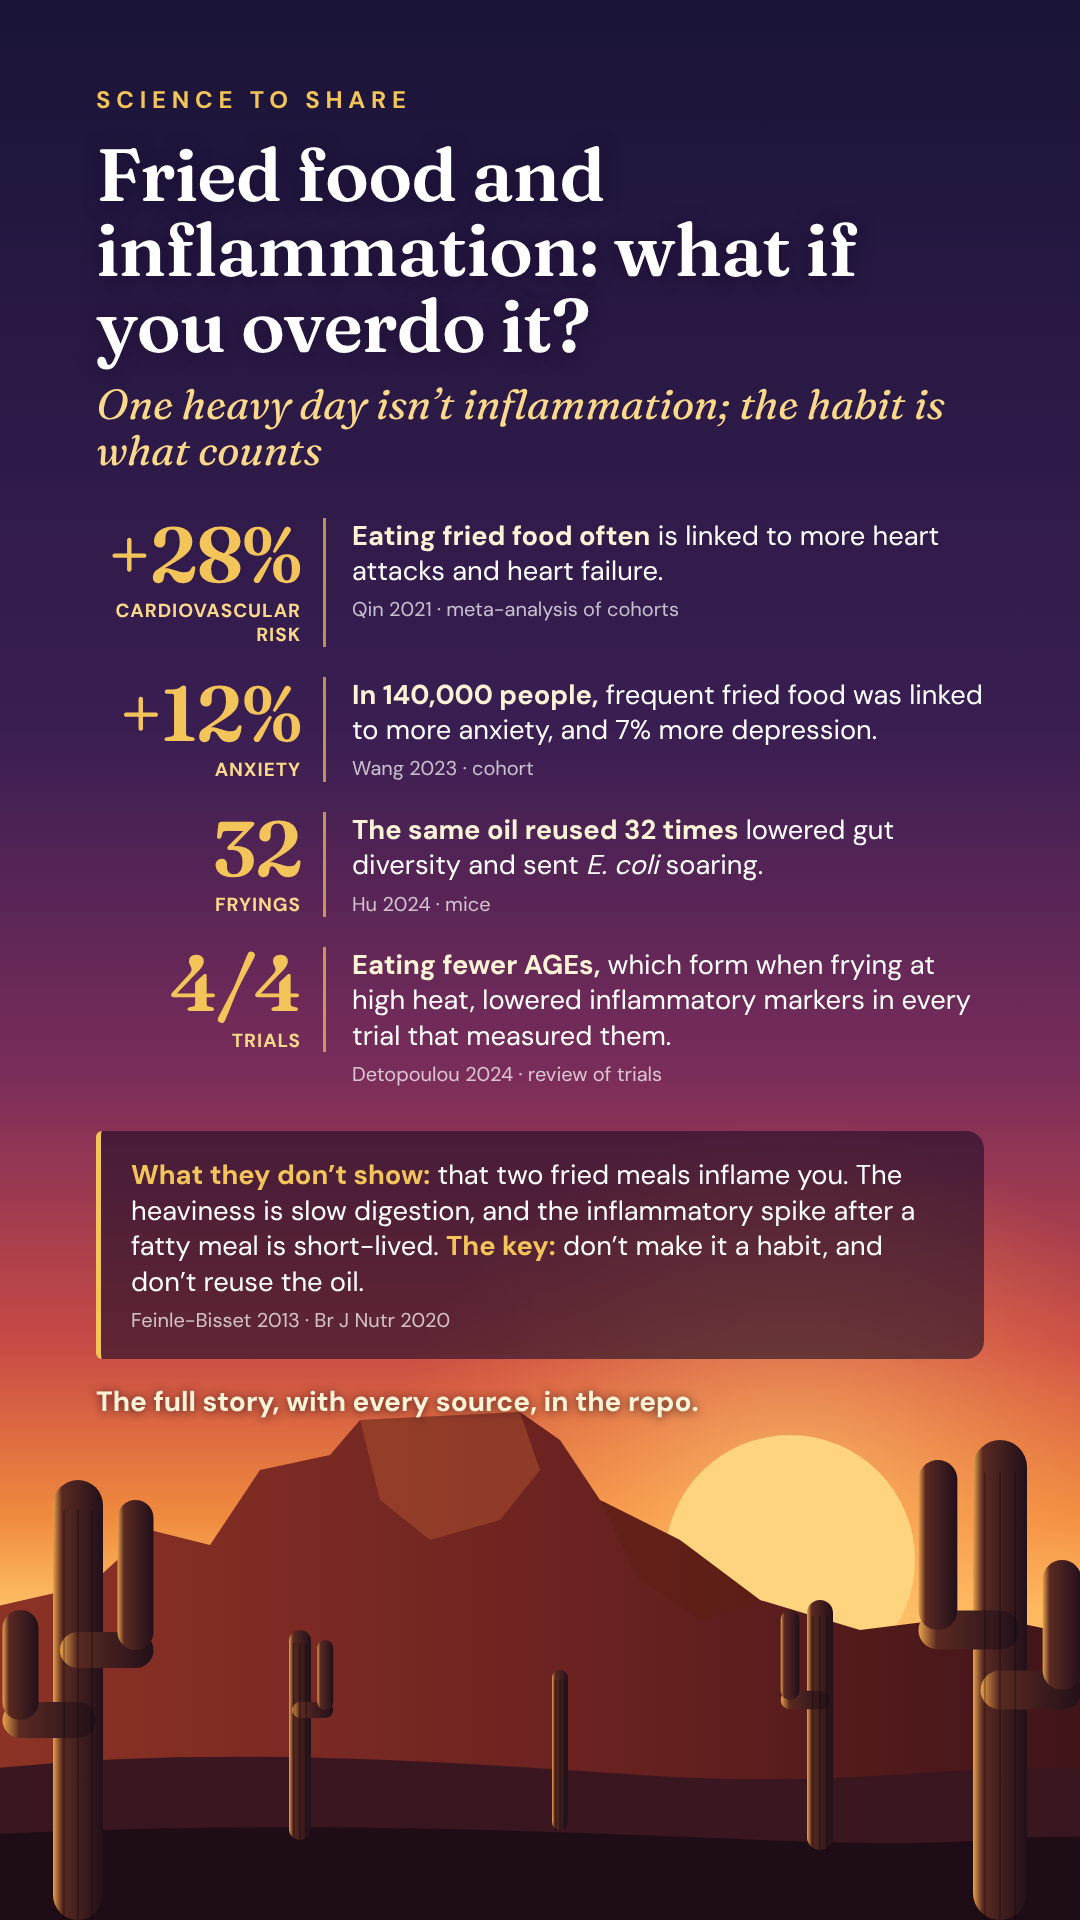
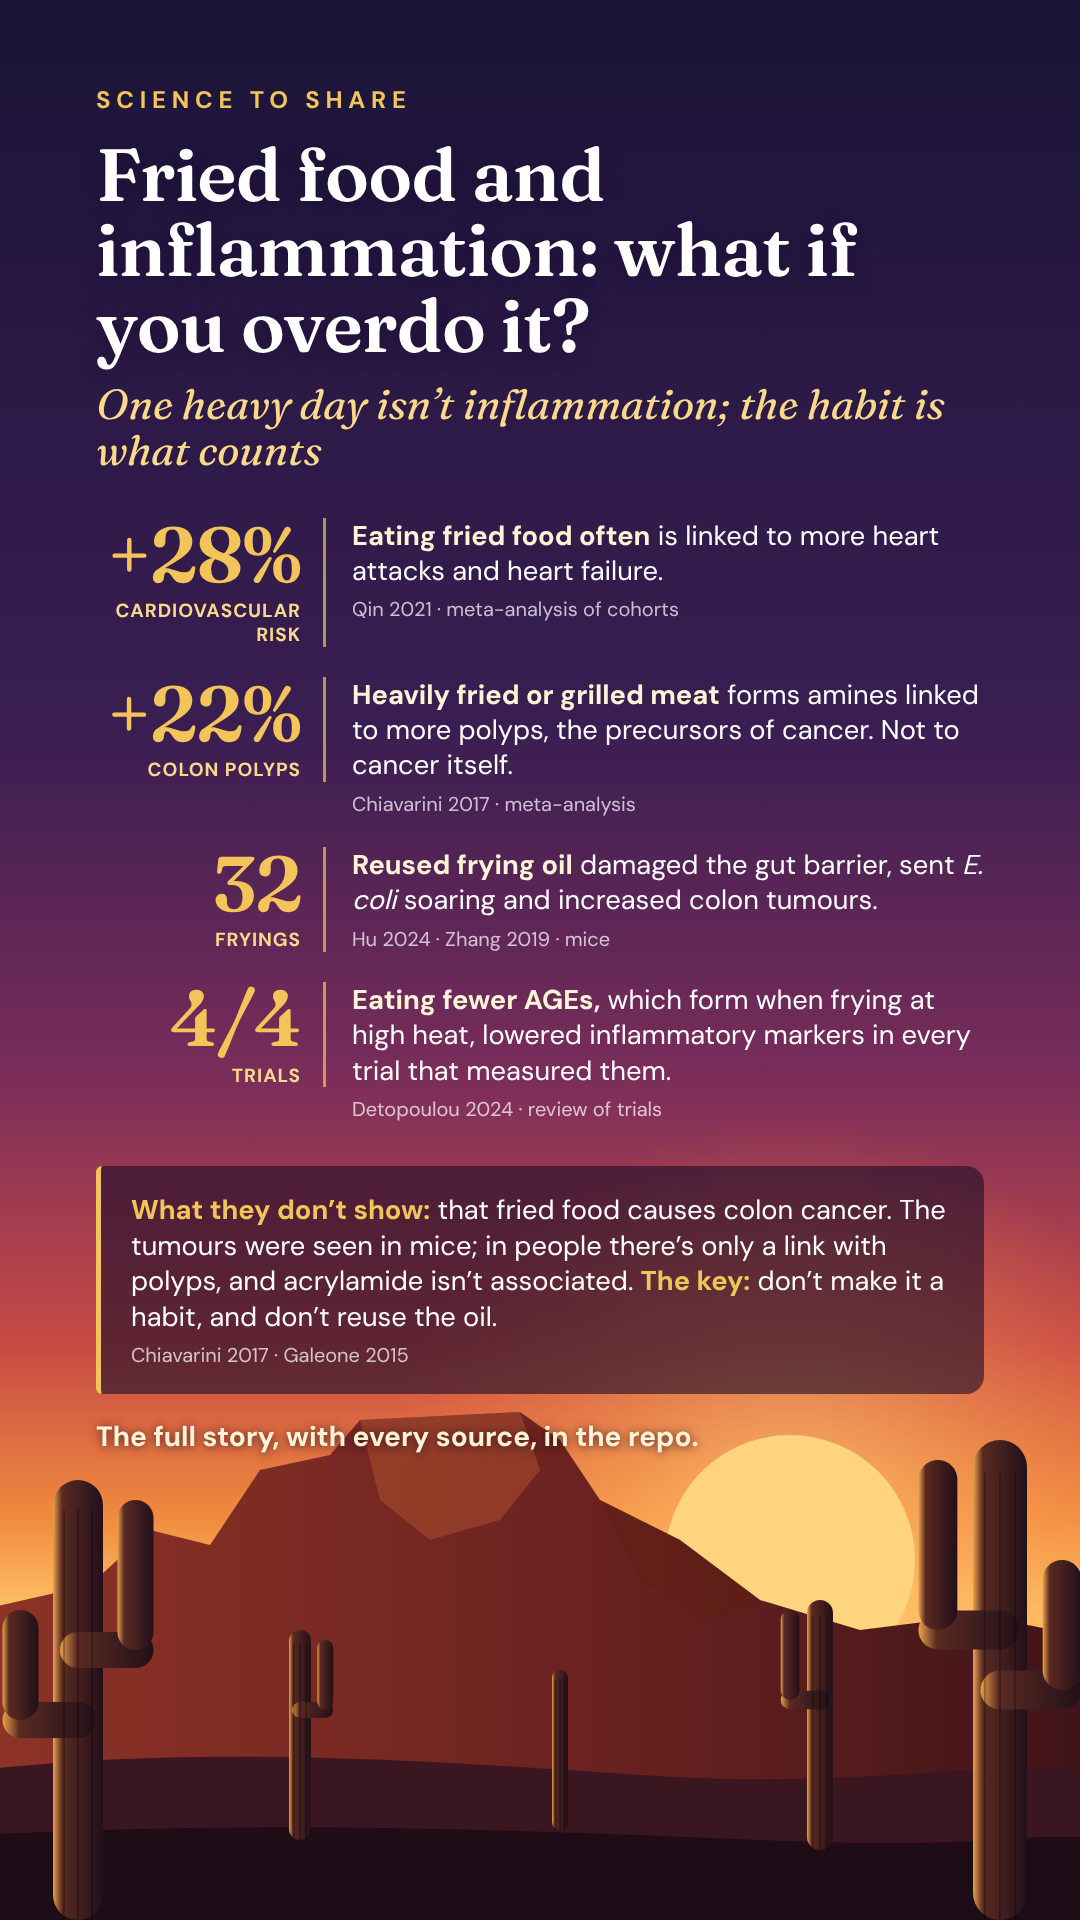
Fritos: versión con colon (pólipos, tumores en ratón, acrilamida sin asociación)
Claude-Session: https://claude.ai/code/session_01WZ345H3rsWUmbyjoNJgkfT

Changed region(s): [[0.0917, 0.3438, 0.9167, 0.7812], [0.8556, 0.4375, 0.8861, 0.4688]]

diff --git a/tools/story_fritos.py b/tools/story_fritos.py
@@ -12,15 +12,15 @@ DESIERTO = {
         "stops": [
             (f"+28{N}%", "riesgo cardiovascular", "**Comer fritos a menudo** se asocia con más infartos e insuficiencia cardíaca.",
              "Qin 2021 · metaanálisis de cohortes"),
-            (f"+12{N}%", "ansiedad", f"**En 140{N}000 personas,** los fritos frecuentes se asociaron con más ansiedad, y un 7{N}% más de depresión.",
-             "Wang 2023 · cohorte"),
-            ("32", "frituras", "**El mismo aceite reutilizado 32 veces** bajó la diversidad intestinal y disparó *E. coli*.",
-             "Hu 2024 · ratón"),
+            (f"+22{N}%", "pólipos de colon", "**La carne muy frita o asada** forma aminas asociadas a más pólipos, los precursores del cáncer. Con el cáncer, no.",
+             "Chiavarini 2017 · metaanálisis"),
+            ("32", "frituras", "**El aceite reutilizado** dañó la barrera del intestino, disparó *E. coli* y aumentó los tumores de colon.",
+             "Hu 2024 · Zhang 2019 · ratón"),
             ("4/4", "ensayos", "**Comer menos AGEs,** que se forman al freír a alta temperatura, bajó los marcadores inflamatorios en todos los ensayos que los midieron.",
              "Detopoulou 2024 · revisión de ensayos"),
         ],
-        "end": ("**Lo que no demuestran:** que dos fritos te inflamen. La pesadez es digestión lenta, y el pico inflamatorio tras una comida grasa es pasajero. **La clave:** que no sea costumbre y no reutilizar el aceite.",
-                "Feinle-Bisset 2013 · Br J Nutr 2020"),
+        "end": ("**Lo que no demuestran:** que los fritos causen cáncer de colon. Los tumores se vieron en ratones; en personas solo hay relación con pólipos, y la acrilamida no se asocia. **La clave:** que no sea costumbre y no reutilizar el aceite.",
+                "Chiavarini 2017 · Galeone 2015"),
         "repo": "**La historia completa,** con todas las fuentes, en el repo.",
     },
     "en": {
@@ -30,15 +30,15 @@ DESIERTO = {
         "stops": [
             ("+28%", "cardiovascular risk", "**Eating fried food often** is linked to more heart attacks and heart failure.",
              "Qin 2021 · meta-analysis of cohorts"),
-            ("+12%", "anxiety", "**In 140,000 people,** frequent fried food was linked to more anxiety, and 7% more depression.",
-             "Wang 2023 · cohort"),
-            ("32", "fryings", "**The same oil reused 32 times** lowered gut diversity and sent *E. coli* soaring.",
-             "Hu 2024 · mice"),
+            ("+22%", "colon polyps", "**Heavily fried or grilled meat** forms amines linked to more polyps, the precursors of cancer. Not to cancer itself.",
+             "Chiavarini 2017 · meta-analysis"),
+            ("32", "fryings", "**Reused frying oil** damaged the gut barrier, sent *E. coli* soaring and increased colon tumours.",
+             "Hu 2024 · Zhang 2019 · mice"),
             ("4/4", "trials", "**Eating fewer AGEs,** which form when frying at high heat, lowered inflammatory markers in every trial that measured them.",
              "Detopoulou 2024 · review of trials"),
         ],
-        "end": ("**What they don’t show:** that two fried meals inflame you. The heaviness is slow digestion, and the inflammatory spike after a fatty meal is short-lived. **The key:** don’t make it a habit, and don’t reuse the oil.",
-                "Feinle-Bisset 2013 · Br J Nutr 2020"),
+        "end": ("**What they don’t show:** that fried food causes colon cancer. The tumours were seen in mice; in people there’s only a link with polyps, and acrylamide isn’t associated. **The key:** don’t make it a habit, and don’t reuse the oil.",
+                "Chiavarini 2017 · Galeone 2015"),
         "repo": "**The full story,** with every source, in the repo.",
     },
     "fr": {
@@ -48,15 +48,15 @@ DESIERTO = {
         "stops": [
             (f"+28{N}%", "risque cardio-vasculaire", "**Manger souvent des fritures** est associé à plus d’infarctus et d’insuffisance cardiaque.",
              "Qin 2021 · méta-analyse de cohortes"),
-            (f"+12{N}%", "anxiété", f"**Chez 140{N}000 personnes,** les fritures fréquentes étaient associées à plus d’anxiété, et à 7{N}% de dépression en plus.",
-             "Wang 2023 · cohorte"),
-            ("32", "fritures", "**La même huile réutilisée 32 fois** a réduit la diversité intestinale et fait exploser *E. coli*.",
-             "Hu 2024 · souris"),
+            (f"+22{N}%", "polypes du côlon", "**La viande très frite ou grillée** forme des amines associées à plus de polypes, les précurseurs du cancer. Pas au cancer lui-même.",
+             "Chiavarini 2017 · méta-analyse"),
+            ("32", "fritures", "**L’huile de friture réutilisée** a abîmé la barrière intestinale, fait exploser *E. coli* et augmenté les tumeurs du côlon.",
+             "Hu 2024 · Zhang 2019 · souris"),
             ("4/4", "essais", "**Manger moins d’AGE,** qui se forment en friture à haute température, a fait baisser les marqueurs inflammatoires dans tous les essais qui les ont mesurés.",
              "Detopoulou 2024 · revue d’essais"),
         ],
-        "end": ("**Ce que les études ne démontrent pas :** que deux fritures vous enflamment. La lourdeur, c’est une digestion lente, et le pic inflammatoire après un repas gras est passager. **La clé :** que ça ne devienne pas une habitude, et ne pas réutiliser l’huile.",
-                "Feinle-Bisset 2013 · Br J Nutr 2020"),
+        "end": ("**Ce que les études ne démontrent pas :** que les fritures causent le cancer du côlon. Les tumeurs ont été vues chez la souris ; chez l’humain, il n’y a qu’un lien avec les polypes, et l’acrylamide n’est pas associé. **La clé :** que ça ne devienne pas une habitude, et ne pas réutiliser l’huile.",
+                "Chiavarini 2017 · Galeone 2015"),
         "repo": "**L’histoire complète,** avec toutes les sources, dans le repo.",
     },
 }
